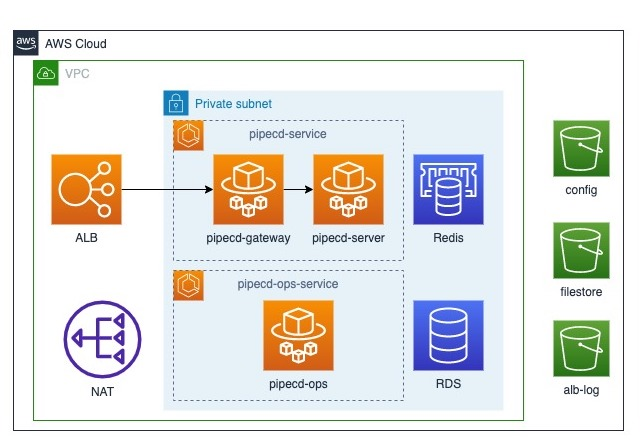
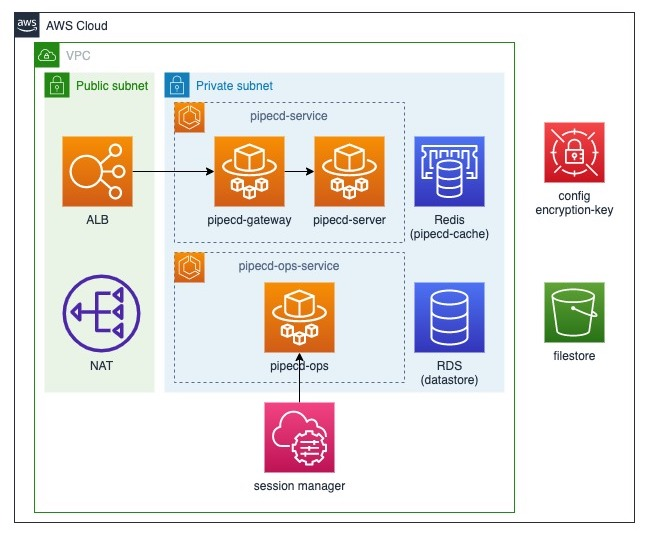
add image
Update 0009-control-plane-without-k8s.md

change image

diff --git a/docs/rfcs/0009-control-plane-without-k8s.md b/docs/rfcs/0009-control-plane-without-k8s.md
@@ -7,32 +7,66 @@ Support install PipeCD control plane on other platform which is not k8s
 
 # Motivation
 
-Now we can deploy the control plane to kubernetes cluster, but some developers that would like to introduce PipeCD can not prepare kubernetes environments. We want to support  install PipeCD control plane on platforms other than kubernetes.
+Currently, we can deploy the control plane to Kubernetes cluster, but some developers that would like to introduce PipeCD can not prepare Kubernetes environments. Hence we want to support installing PipeCD control plane on platforms other than Kubernetes.
 
 # Detailed design
 
-1. Control Plane on docker-compose
-    - Developers can deploy control plane on a single machine.
-    - Developers do not have to prepare datastore and filestore by themselves or they can easily use database or filestore on local machine.
+## 1. Control Plane on docker-compose
+    ### Note:
+    - Developers can deploy the control plane on a single machine.
+    - Developers do not have to prepare a datastore and a filestore by themselves or they can easily use a database or a filestore on local machine.
+    ### Production Architecture
+    - Port-forward from docker-compose to your machine to enable external client access to pipecd-gateway container.
+    ![image](assets/control-plane-on-docker-compose.jpg)
     
-2. Control Plane on managed container services (ex. ECS)
-    - Pipecd can give the way to deploy control plane as Terraform template.
-    - They can easily use managed database or storage system on cloud as datastore and filestore.
+    
+## 2. Control Plane on managed container services (ex. ECS)
+    ### Note:
+    - PipeCD gives the abstract architecture for ECS.
+        - Give a [sample repository](https://github.com/pipe-cd/control-plane-aws-ecs-terraform-demo) that describes an architecture by using Terraform. 
+        - The architectures are different by each project, so create your best architecture with refering to this repository and docker-compose file.
+    - They can easily use the managed database or storage system on cloud as datastore and filestore.
+    
+    ### Production Architecture on ECS
     ![image](assets/control-plane-on-aws.jpg)
+    
     Note:
-    - Devide pipecd-server and pipecd-ops to different services because they have the same port and have different authorization.
-    - Pay attention to brocking public access to s3.
+    - Devide a pipecd-server and a pipecd-ops to different services because they have the same port and have different authorization.
+    - Pay attention to brocking public access to S3.
         - Add IAM role to ECS to access S3.
+    - Make two types of target groups for both HTTP and gRPC. Use HTTPS for ALB listeners because gRPC listeners need HTTPS.
+    - Set up before containers start to run so that PipeCD can use config files and encryption keys. You can choose from 3 options as below.
+        - Use Secrets Manager as config store.
+        ```
+        # get configuration files from private S3 bucket via aws-cli
+        echo $CONTROL_PLANE_CONFIG >> control_plane_config.yaml
+        # replace datastore endpoint (if you use terraform, you can replace by using variables)
+        sed -i -e s/pipecd-mysql/${var.db_instance_address}/ control-plane-config.yaml
+        # You must set an encryption key to the environment value
+        echo $ENCRYPTION_KEY >> encryption-key
+        # replace cache endpoint (if you use terraform, you can replace by using variables)
+        pipecd server \
+        --insecure-cookie=true \
+        --cache-address=${var.redis_host}:6379 \
+        --config-file=control-plane-config.yaml \
+        --enable-grpc-reflection=false \
+        --encryption-key-file=encryption-key \
+        --log-encoding=humanize --metrics=true;
+        ```
+        - Use Parameter Store as config store (Attention: Envoy config has over 4096 characters, so you can not use Parameter Store as envoy config file store.)
+        - Use S3 as config store. (Attention: install aws-cli to the pipecd-server container to get configuration files from private s3 bucket)
+        ```
+        # get configuration files from private S3 bucket via aws-cli
+        apk add aws-cli
+        aws s3 cp s3://namba-pipecd-control-plane-config/control-plane-config.yaml ./
+        ```
 
 # Alternatives
 
-1. Control Plane without container image
-    - This alternative supports deploy control plane as a binary such as Piped.
+Control Plane without container image
+    - This alternative supports deploying the control plane as a binary such as piped.
     - It is stressful for developers to set up networking by themselves.
 
 2. Abolish envoy and use ALB instead of envoy for access distribution
-    - We must move configuration for envoy to ALB.
+    - We must move the configuration for envoy to ALB.
     - We must make the same number of target groups as pipecd-server has.
-# Unresolved questions
-
-None
